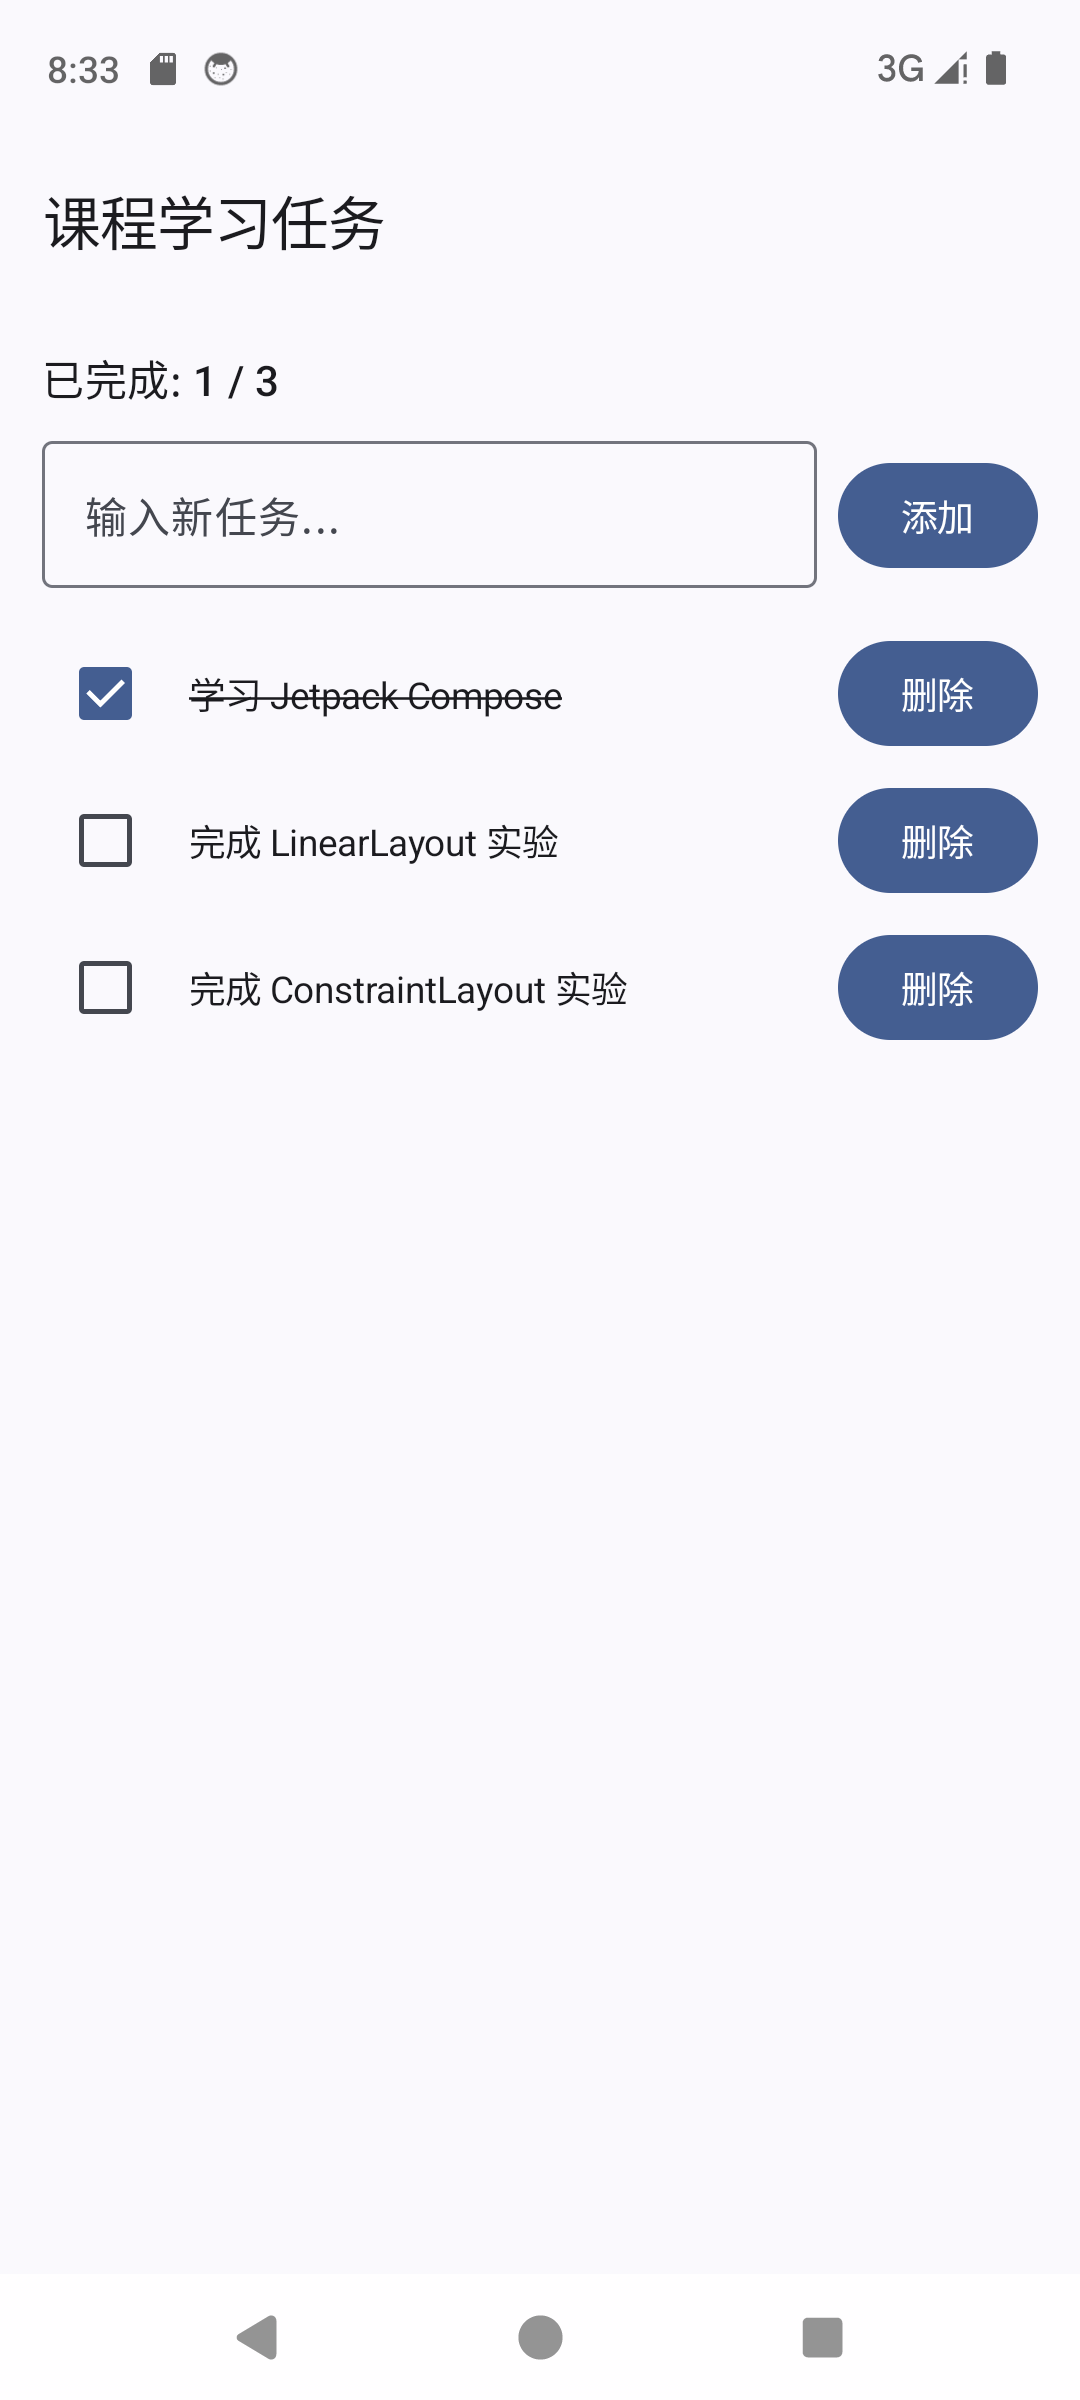
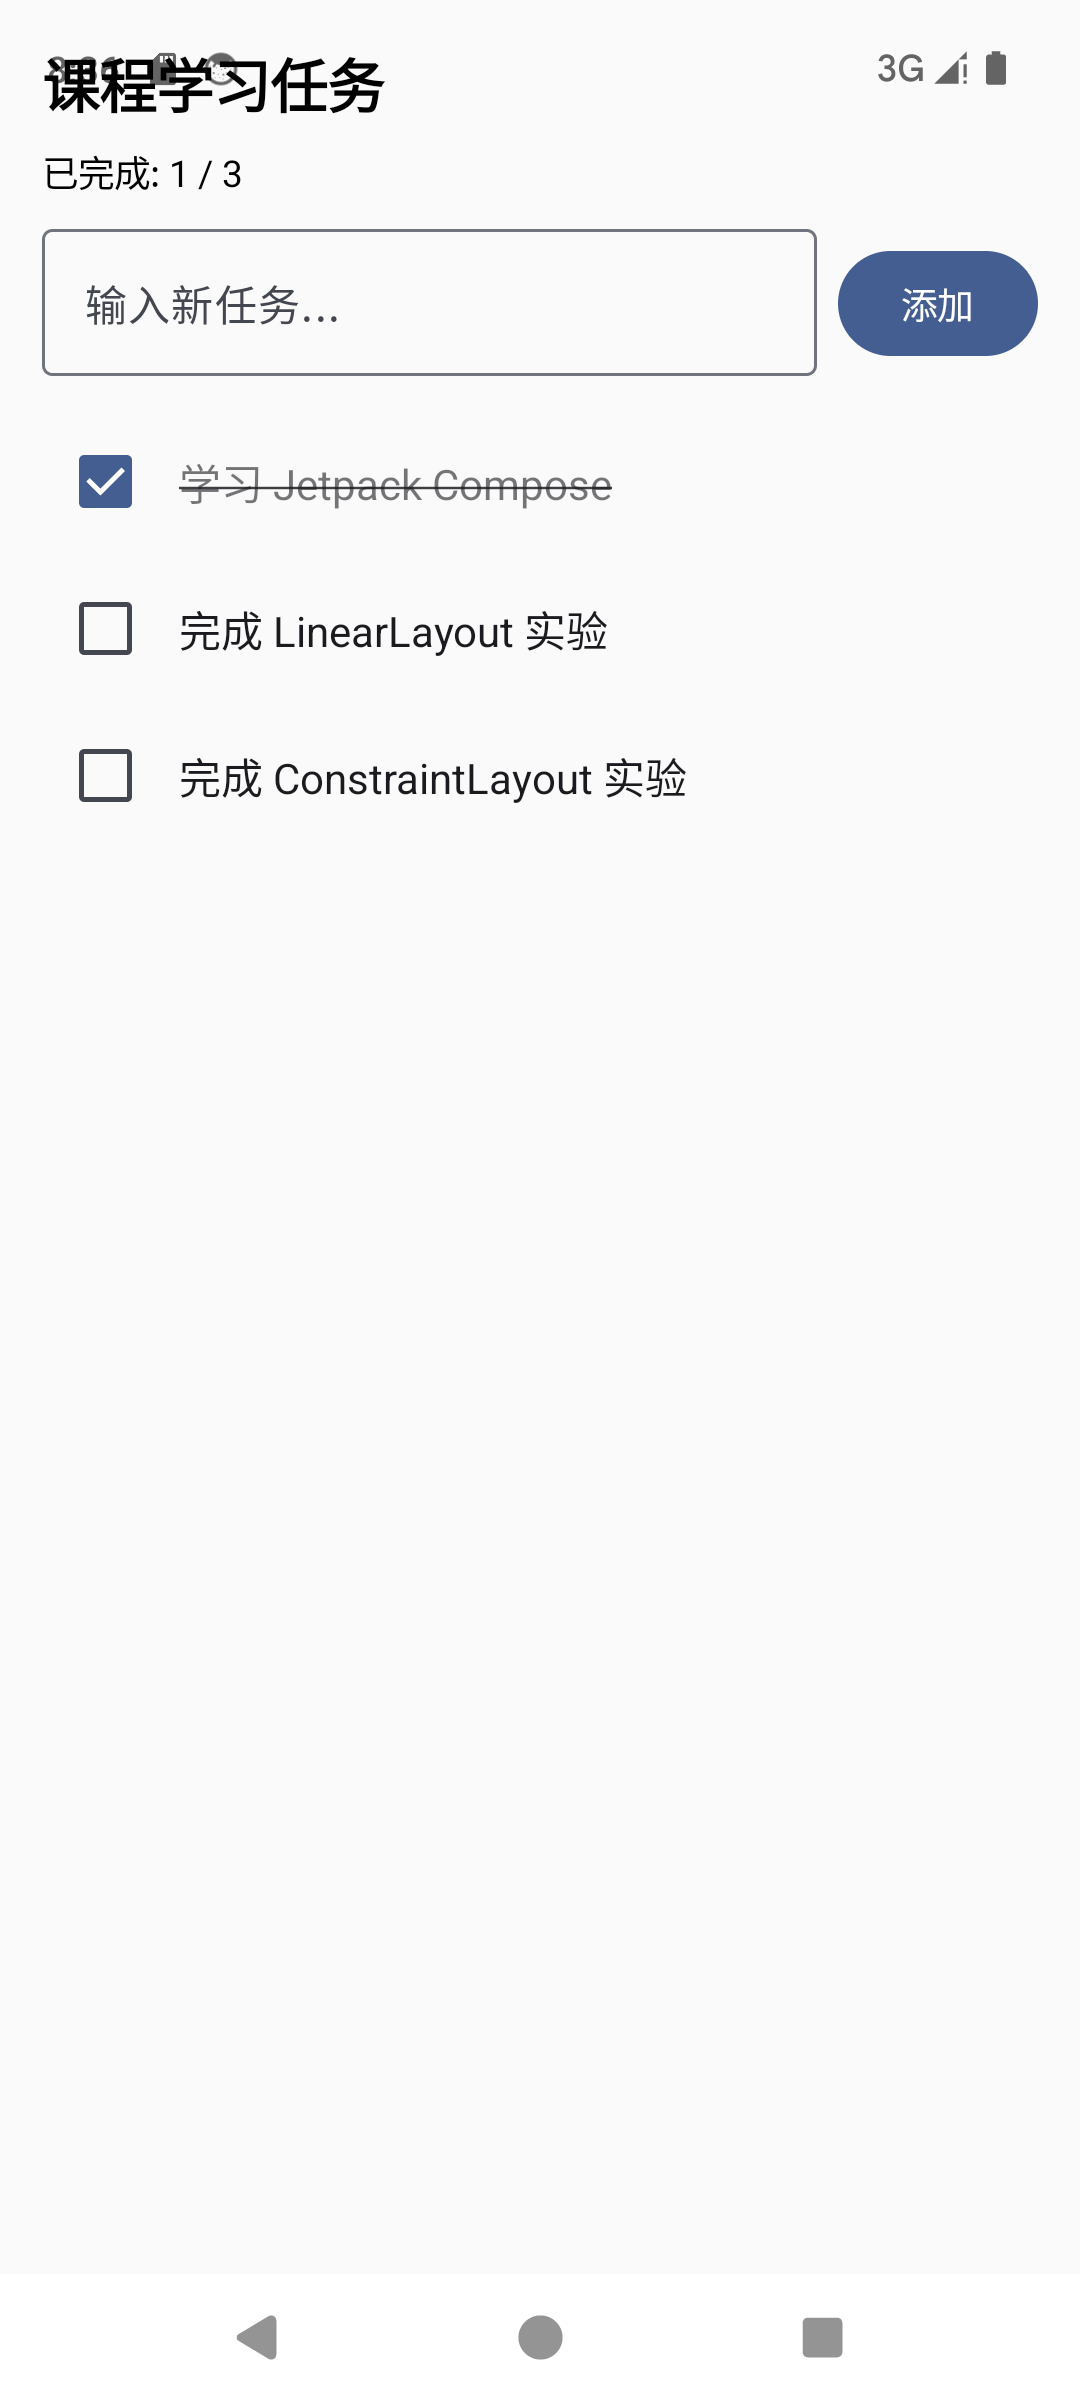
fix: Compose任务列表去掉TopAppBar蓝条和删除按钮，匹配PDF原图

diff --git a/app/src/main/java/com/example/test/TaskListActivity.kt b/app/src/main/java/com/example/test/TaskListActivity.kt
@@ -14,12 +14,9 @@ import androidx.compose.foundation.lazy.LazyColumn
 import androidx.compose.foundation.lazy.items
 import androidx.compose.material3.Button
 import androidx.compose.material3.Checkbox
-import androidx.compose.material3.ExperimentalMaterial3Api
 import androidx.compose.material3.MaterialTheme
 import androidx.compose.material3.OutlinedTextField
-import androidx.compose.material3.Scaffold
 import androidx.compose.material3.Text
-import androidx.compose.material3.TopAppBar
 import androidx.compose.runtime.Composable
 import androidx.compose.runtime.getValue
 import androidx.compose.runtime.mutableStateListOf
@@ -31,6 +28,7 @@ import androidx.compose.ui.Modifier
 import androidx.compose.ui.text.TextStyle
 import androidx.compose.ui.text.style.TextDecoration
 import androidx.compose.ui.unit.dp
+import androidx.compose.ui.unit.sp
 
 import com.example.test.ui.theme.TestTheme
 
@@ -52,7 +50,6 @@ class TaskListActivity : ComponentActivity() {
     }
 }
 
-@OptIn(ExperimentalMaterial3Api::class)
 @Composable
 fun TaskListScreen() {
     var nextId by remember { mutableStateOf(4) }
@@ -67,67 +64,68 @@ fun TaskListScreen() {
 
     val completedCount = tasks.count { it.completed }
 
-    Scaffold(
-        topBar = {
-            TopAppBar(
-                title = { Text("课程学习任务") }
-            )
-        }
-    ) { innerPadding ->
-        Column(
+    Column(
+        modifier = Modifier
+            .fillMaxSize()
+            .padding(16.dp)
+    ) {
+        // 标题（不用 TopAppBar，PDF 原图是白底普通标题）
+        Text(
+            text = "课程学习任务",
+            style = TextStyle(
+                fontSize = 22.sp,
+                fontWeight = androidx.compose.ui.text.font.FontWeight.Bold
+            ),
+            modifier = Modifier.padding(bottom = 8.dp)
+        )
+
+        // 已完成计数
+        Text(
+            text = "已完成: $completedCount / ${tasks.size}",
+            style = TextStyle(fontSize = 14.sp),
+            modifier = Modifier.padding(bottom = 12.dp)
+        )
+
+        // 输入框 + 添加按钮
+        Row(
+            verticalAlignment = Alignment.CenterVertically,
             modifier = Modifier
-                .fillMaxSize()
-                .padding(innerPadding)
-                .padding(16.dp)
+                .fillMaxWidth()
+                .padding(bottom = 16.dp)
         ) {
-            Text(
-                text = "已完成: $completedCount / ${tasks.size}",
-                style = MaterialTheme.typography.titleMedium,
-                modifier = Modifier.padding(bottom = 12.dp)
+            OutlinedTextField(
+                value = inputText,
+                onValueChange = { inputText = it },
+                placeholder = { Text("输入新任务...") },
+                modifier = Modifier.weight(1f)
             )
-
-            Row(
-                verticalAlignment = Alignment.CenterVertically,
-                modifier = Modifier
-                    .fillMaxWidth()
-                    .padding(bottom = 16.dp)
+            Button(
+                onClick = {
+                    if (inputText.isNotBlank()) {
+                        tasks.add(Task(nextId++, inputText.trim()))
+                        inputText = ""
+                    }
+                },
+                modifier = Modifier.padding(start = 8.dp)
             ) {
-                OutlinedTextField(
-                    value = inputText,
-                    onValueChange = { inputText = it },
-                    placeholder = { Text("输入新任务...") },
-                    modifier = Modifier.weight(1f)
-                )
-                Button(
-                    onClick = {
-                        if (inputText.isNotBlank()) {
-                            tasks.add(Task(nextId++, inputText.trim()))
-                            inputText = ""
-                        }
-                    },
-                    modifier = Modifier.padding(start = 8.dp)
-                ) {
-                    Text("添加")
-                }
+                Text("添加")
             }
+        }
 
-            LazyColumn(
-                verticalArrangement = Arrangement.spacedBy(8.dp)
-            ) {
-                items(tasks) { task ->
-                    TaskItem(
-                        task = task,
-                        onCheckedChange = { checked ->
-                            val index = tasks.indexOfFirst { it.id == task.id }
-                            if (index >= 0) {
-                                tasks[index] = tasks[index].copy(completed = checked)
-                            }
-                        },
-                        onDelete = {
-                            tasks.removeAll { it.id == task.id }
+        // 任务列表
+        LazyColumn(
+            verticalArrangement = Arrangement.spacedBy(8.dp)
+        ) {
+            items(tasks) { task ->
+                TaskItem(
+                    task = task,
+                    onCheckedChange = { checked ->
+                        val index = tasks.indexOfFirst { it.id == task.id }
+                        if (index >= 0) {
+                            tasks[index] = tasks[index].copy(completed = checked)
                         }
-                    )
-                }
+                    }
+                )
             }
         }
     }
@@ -136,8 +134,7 @@ fun TaskListScreen() {
 @Composable
 fun TaskItem(
     task: Task,
-    onCheckedChange: (Boolean) -> Unit,
-    onDelete: () -> Unit
+    onCheckedChange: (Boolean) -> Unit
 ) {
     Row(
         verticalAlignment = Alignment.CenterVertically,
@@ -150,16 +147,14 @@ fun TaskItem(
         Text(
             text = task.text,
             style = TextStyle(
-                textDecoration = if (task.completed) TextDecoration.LineThrough else TextDecoration.None
+                fontSize = 16.sp,
+                textDecoration = if (task.completed) TextDecoration.LineThrough else TextDecoration.None,
+                color = if (task.completed) MaterialTheme.colorScheme.onSurface.copy(alpha = 0.6f)
+                        else MaterialTheme.colorScheme.onSurface
             ),
             modifier = Modifier
                 .weight(1f)
-                .padding(horizontal = 8.dp)
+                .padding(start = 4.dp)
         )
-        Button(
-            onClick = onDelete
-        ) {
-            Text("删除")
-        }
     }
 }
